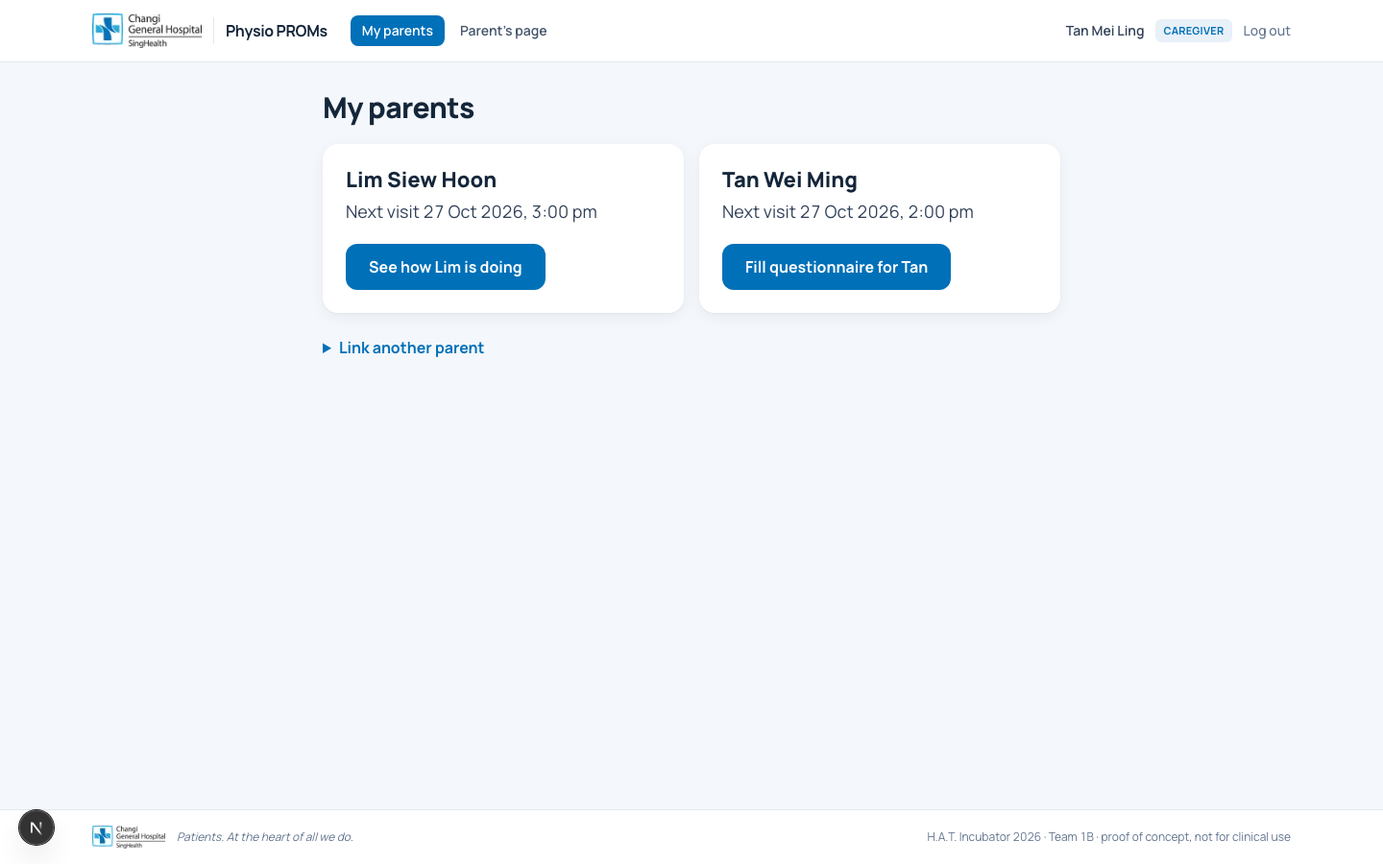
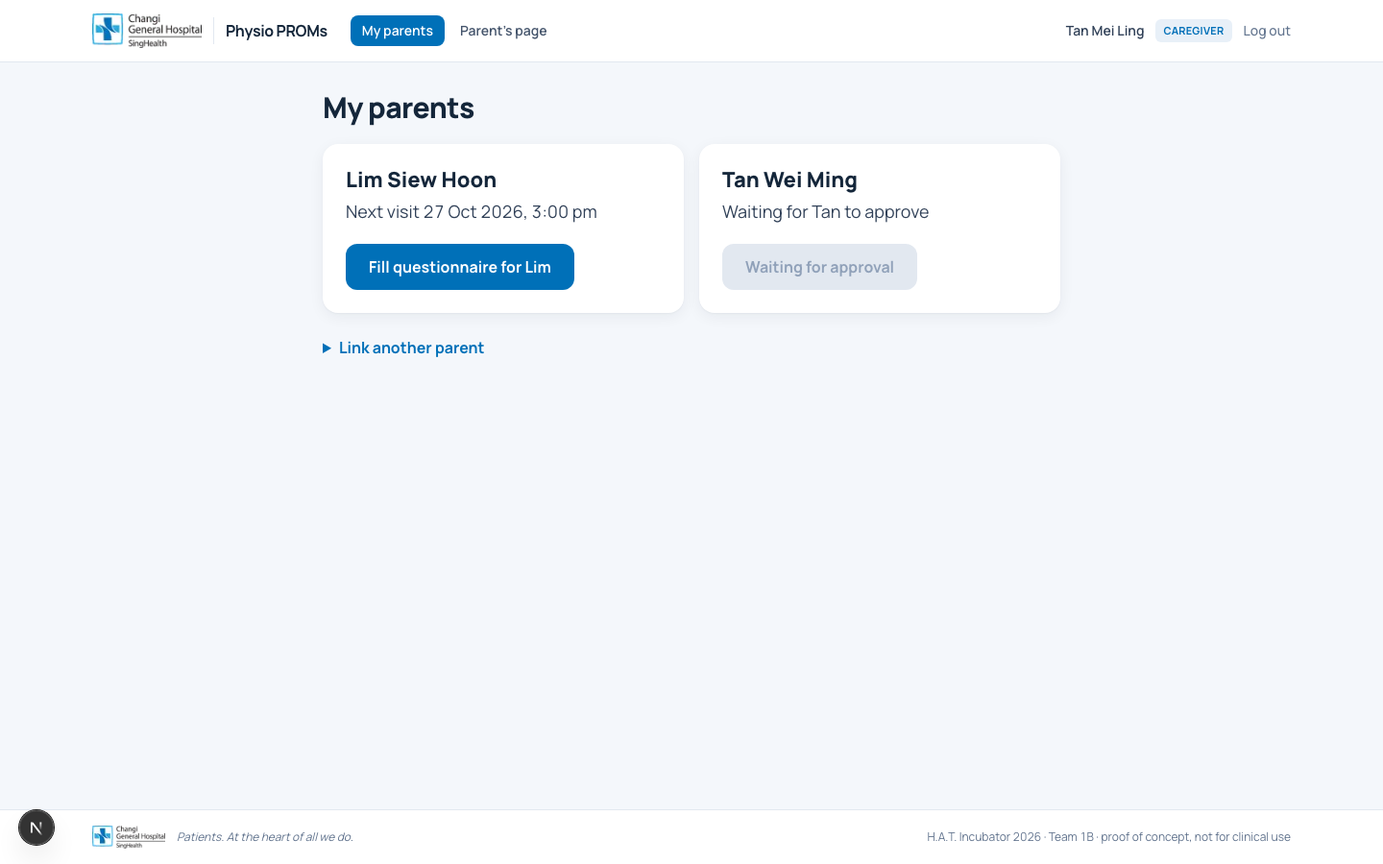
Caregiver links need the parent's consent: pending/accepted/declined status, Allow/Decline card for the parent (web + api/v1 link-requests), caregivers see nothing until accepted; demo seed keeps the daughter→father link pending

Changed region(s): [[0.5, 0.28, 0.6875, 0.3422], [0.2812, 0.28, 0.4375, 0.3422], [0.5312, 0.2178, 0.6875, 0.2489]]

diff --git a/web/app/patient/page.tsx b/web/app/patient/page.tsx
@@ -4,6 +4,8 @@ import { db, one } from "@/lib/db";
 import { patientBundle } from "@/lib/data";
 import { PlainProgress } from "@/components/PlainProgress";
 import { VERDICT_TEXT, verdict } from "@/lib/plain";
+import { linkAccepted, pendingRequests } from "@/lib/care";
+import { LinkRequestCard } from "@/components/LinkRequestCard";
 import { Card, Pill, fmtDT, fmtD, age, startOfTodaySG } from "@/components/ui";
 import { markReadAction } from "../actions";
 
@@ -13,7 +15,9 @@ export default async function PatientPage({ searchParams }: { searchParams: Prom
   const patientId = s.user.role === "caregiver" ? s.actingPatientId : s.user.role === "patient" ? s.user.id : null;
   if (s.user.role === "caregiver" && !patientId) redirect("/caregiver");
   if (!patientId) redirect("/");
+  if (s.user.role === "caregiver" && !(await linkAccepted(s.user.id, patientId))) redirect("/caregiver");
   const b = await patientBundle(patientId); if (!b) redirect("/");
+  const requests = s.user.role === "patient" ? await pendingRequests(patientId) : [];
   const q = await db();
   const notes = await q<{ id: number; kind: string; message: string; send_at: string; read_at: string | null; channel: string }>(`SELECT id, kind, message, send_at::text, read_at::text, channel FROM notifications WHERE user_id = $1 AND (channel='app' OR sent_at IS NOT NULL) ORDER BY send_at DESC LIMIT 30`, [patientId]);
   const unread = notes.filter((n) => n.channel === "app" && !n.read_at).length;
@@ -42,11 +46,12 @@ export default async function PatientPage({ searchParams }: { searchParams: Prom
           </>}
         </div>
         {cur && <p className={`mt-4 text-lg font-bold ${t.tone === "ok" ? "text-ok" : t.tone === "warn" ? "text-warn" : "text-slate-700"}`}>{v === "first" ? "Your first questionnaire is in." : t.title}</p>}
+        {requests.map((r) => <div key={r.id} className="mt-5"><LinkRequestCard r={r} /></div>)}
       </div>; })()}
     {tab === "survey" && <Card title="Questionnaire (EQ-5D-5L)">{pending.length ? <div className="space-y-2">{pending.map((a) => <div key={a.id} className="flex items-center justify-between text-sm"><span>For your appointment on <b>{fmtDT(a.scheduled_at)}</b></span><a href={`/survey?appt=${a.id}`} className="px-3 py-1.5 rounded bg-cgh-blue text-white text-xs font-semibold">Start</a></div>)}</div> : <div className="text-sm text-slate-600">No questionnaire due right now. You can still record how you feel today: <a href="/survey" className="underline text-cgh-blue">fill an extra entry</a>.</div>}</Card>}
     {tab === "progress" && <PlainProgress patientId={patientId} caregiver={s.user.role === "caregiver"} />}
     {tab === "calendar" && <Card title="Calendar"><table className="tbl"><thead><tr><th>When</th><th>Visit</th><th>Physiotherapist</th><th>Questionnaire</th></tr></thead><tbody>{[...b.appointments].reverse().map((a) => <tr key={a.id} ><td>{fmtDT(a.scheduled_at)}</td><td>{a.kind} <span className="text-slate-400">· {a.status}</span></td><td>{a.physio_name ?? "—"}</td><td>{a.survey_id ? <Pill ok>done</Pill> : a.status === "scheduled" ? <a href={`/survey?appt=${a.id}`} className="underline text-cgh-blue">fill now</a> : "—"}</td></tr>)}</tbody></table></Card>}
-    {tab === "notifications" && <Card title="Notifications" right={<form action={markReadAction}><button className="underline">Mark all as read</button></form>}>{notes.map((n) => <div key={n.id} className={`text-sm py-2 border-b border-slate-100 last:border-0 ${n.channel === "app" && !n.read_at ? "font-semibold" : ""}`}><span className="text-xs text-slate-400 mr-2">{fmtDT(n.send_at)} · {n.channel.toUpperCase()}</span>{n.message}</div>)}{notes.length === 0 && <p className="text-slate-500 text-sm">None.</p>}</Card>}
-    {tab === "profile" && <Card title="Personal particulars"><dl className="grid grid-cols-[160px_1fr] gap-y-2 text-sm"><dt className="text-slate-500">Name</dt><dd>{b.patient.name}</dd><dt className="text-slate-500">NRIC</dt><dd>{b.patient.login_id.slice(0, 1)}****{b.patient.login_id.slice(-4)}</dd><dt className="text-slate-500">Birthday</dt><dd>{fmtD(b.patient.birthday)} ({age(b.patient.birthday) ?? "-"} y)</dd><dt className="text-slate-500">Gender</dt><dd>{b.patient.gender ?? "—"}</dd><dt className="text-slate-500">Mobile</dt><dd>{b.patient.phone ?? "—"}</dd><dt className="text-slate-500">Address</dt><dd>{b.patient.address ?? "—"}</dd><dt className="text-slate-500">Condition</dt><dd>{b.referrals[0] ? `${b.referrals[0].diagnosis} · ${b.referrals[0].region} · physiotherapist ${b.referrals[0].physio_name ?? "to be assigned"}` : "—"}</dd><dt className="text-slate-500">Caregivers</dt><dd>{b.caregivers.length ? b.caregivers.map((c) => `${c.name} (${c.relationship})`).join(", ") : "none linked"}</dd></dl></Card>}
+    {tab === "notifications" && <div className="max-w-xl space-y-4">{requests.map((r) => <LinkRequestCard key={r.id} r={r} />)}<Card title="Notifications" right={<form action={markReadAction}><button className="underline">Mark all as read</button></form>}>{notes.filter((n) => !(n.kind === "link_request" && requests.length > 0)).map((n) => <div key={n.id} className={`text-sm py-2 border-b border-slate-100 last:border-0 ${n.channel === "app" && !n.read_at ? "font-semibold" : ""}`}><span className="text-xs text-slate-400 mr-2">{fmtDT(n.send_at)} · {n.channel.toUpperCase()}</span>{n.message}</div>)}{notes.length === 0 && <p className="text-slate-500 text-sm">None.</p>}</Card></div>}
+    {tab === "profile" && <Card title="Personal particulars"><dl className="grid grid-cols-[160px_1fr] gap-y-2 text-sm"><dt className="text-slate-500">Name</dt><dd>{b.patient.name}</dd><dt className="text-slate-500">NRIC</dt><dd>{b.patient.login_id.slice(0, 1)}****{b.patient.login_id.slice(-4)}</dd><dt className="text-slate-500">Birthday</dt><dd>{fmtD(b.patient.birthday)} ({age(b.patient.birthday) ?? "-"} y)</dd><dt className="text-slate-500">Gender</dt><dd>{b.patient.gender ?? "—"}</dd><dt className="text-slate-500">Mobile</dt><dd>{b.patient.phone ?? "—"}</dd><dt className="text-slate-500">Address</dt><dd>{b.patient.address ?? "—"}</dd><dt className="text-slate-500">Condition</dt><dd>{b.referrals[0] ? `${b.referrals[0].diagnosis} · ${b.referrals[0].region} · physiotherapist ${b.referrals[0].physio_name ?? "to be assigned"}` : "—"}</dd><dt className="text-slate-500">Caregivers</dt><dd>{b.caregivers.filter((c) => c.status === "accepted").length ? b.caregivers.filter((c) => c.status === "accepted").map((c) => `${c.name} (${c.relationship})`).join(", ") : "none linked"}</dd></dl></Card>}
   </div>;
 }

diff --git a/web/app/actions.ts b/web/app/actions.ts
@@ -6,6 +6,7 @@ import { hashPassword, login, logout, session, setActingPatient } from "@/lib/au
 import { HOME } from "@/lib/roles";
 import { indexValue, regionFromDiagnosis, type Dim } from "@/lib/eq5d";
 import { dispatchDue, notifyApp, scheduleReminders } from "@/lib/notify";
+import { linkAccepted, requestLink, respondLink } from "@/lib/care";
 
 
 export async function loginAction(_: unknown, fd: FormData) {
@@ -29,7 +30,7 @@ export async function registerAction(_: unknown, fd: FormData) {
   if (role === "caregiver") {
     const parent = await one<{ id: number }>("SELECT id FROM users WHERE login_id = $1 AND role = 'patient'", [String(fd.get("parent_nric") ?? "").trim().toUpperCase()]);
     if (!parent) return { error: "Registered, but the patient NRIC was not found. Log in and link your parent from your page." };
-    await q("INSERT INTO care_links(caregiver_id, patient_id, relationship) VALUES ($1,$2,$3) ON CONFLICT DO NOTHING", [u.id, parent.id, String(fd.get("relationship") || "child")]);
+    await requestLink(q, { id: u.id as number, name: String(fd.get("name")) }, parent.id, String(fd.get("relationship") || "child"));
   }
   await login(nric, pw);
   redirect(HOME[role]);
@@ -40,17 +41,16 @@ export async function linkParentAction(_: unknown, fd: FormData) {
   const parent = await one<{ id: number; name: string }>("SELECT id, name FROM users WHERE login_id = $1 AND role = 'patient'", [String(fd.get("parent_nric") ?? "").trim().toUpperCase()]);
   if (!parent) return { error: "No patient with that NRIC." };
   const q = await db();
-  await q("INSERT INTO care_links(caregiver_id, patient_id, relationship) VALUES ($1,$2,$3) ON CONFLICT DO NOTHING", [s.user.id, parent.id, String(fd.get("relationship") || "child")]);
-  await notifyApp(q, parent.id, "link", `${s.user.name} (${fd.get("relationship")}) is now linked to your account and can help you with questionnaires.`);
+  const link = await requestLink(q, { id: s.user.id, name: s.user.name }, parent.id, String(fd.get("relationship") || "child"));
   revalidatePath("/caregiver");
-  return { ok: `Linked to ${parent.name}` };
+  return { ok: link.status === "accepted" ? `Already linked to ${parent.name}` : `Request sent. ${parent.name} has to allow it first.` };
 }
 
 export async function actAsAction(fd: FormData) {
   const s = await session(); if (!s || s.user.role !== "caregiver") return;
   const pid = Number(fd.get("patient_id"));
-  const ok = await one("SELECT 1 FROM care_links WHERE caregiver_id = $1 AND patient_id = $2", [s.user.id, pid]);
-  if (ok) await setActingPatient(pid);
+  if (!(await linkAccepted(s.user.id, pid))) redirect("/caregiver");
+  await setActingPatient(pid);
   const appt = fd.get("appt");
   redirect(appt ? `/survey?appt=${appt}` : "/patient");
 }
@@ -59,6 +59,7 @@ export async function submitSurveyAction(_: unknown, fd: FormData) {
   const s = await session(); if (!s) return { error: "Please log in." };
   const patientId = s.user.role === "caregiver" ? s.actingPatientId : s.user.id;
   if (!patientId || !["patient", "caregiver"].includes(s.user.role)) return { error: "Not allowed." };
+  if (s.user.role === "caregiver" && !(await linkAccepted(s.user.id, patientId))) return { error: "Your parent has not allowed you to help yet." };
   const lv = {} as Record<Dim, number>;
   for (const d of ["mo", "sc", "ua", "pd", "ad"] as Dim[]) { lv[d] = Number(fd.get(d)); if (!(lv[d] >= 1 && lv[d] <= 5)) return { error: "Please answer every question." }; }
   const vas = Number(fd.get("eq_vas")), pain = Number(fd.get("pain"));
@@ -125,4 +126,11 @@ export async function markReadAction() {
   const s = await session(); if (!s) return;
   const q = await db(); await q("UPDATE notifications SET read_at = now() WHERE user_id = $1 AND channel='app' AND read_at IS NULL", [s.user.id]);
   revalidatePath("/patient");
+}
+
+export async function respondLinkAction(fd: FormData) {
+  const s = await session(); if (!s || s.user.role !== "patient") return;
+  await respondLink(Number(fd.get("link_id")), s.user.id, String(fd.get("accept")) === "1");
+  revalidatePath("/patient");
+  redirect("/patient?tab=notifications");
 }

diff --git a/web/lib/care.ts b/web/lib/care.ts
@@ -1,0 +1,45 @@
+// Caregiver ↔ patient links need the patient's consent. A link is 'pending' until the parent taps Allow.
+import "server-only";
+import { db, one } from "./db";
+import { notifyApp } from "./notify";
+
+type Q = (sql: string, params?: unknown[]) => Promise<Record<string, unknown>[]>;
+
+const pronoun = (rel: string) => /daughter|mother|wife|grandmother|sister/i.test(rel) ? "she" : /son|father|husband|grandson|brother/i.test(rel) ? "he" : "they";
+const possessive = (gender: string | null | undefined) => gender === "MALE" ? "his" : gender === "FEMALE" ? "her" : "their";
+
+/** Create a pending link and ask the parent. Returns the link id (existing one if already there). */
+export async function requestLink(q: Q, caregiver: { id: number; name: string }, parentId: number, relationship: string): Promise<{ id: number; status: string }> {
+  const existing = await one<{ id: number; status: string }>("SELECT id, status FROM care_links WHERE caregiver_id = $1 AND patient_id = $2", [caregiver.id, parentId]);
+  if (existing) return existing;
+  const [row] = await q("INSERT INTO care_links(caregiver_id, patient_id, relationship, status) VALUES ($1,$2,$3,'pending') RETURNING id", [caregiver.id, parentId, relationship]);
+  const id = row.id as number;
+  const verb = pronoun(relationship) === "they" ? "says they are" : `says ${pronoun(relationship)} is`;
+  await q(`INSERT INTO notifications(user_id, channel, kind, message, send_at, sent_at, link_id) VALUES ($1,'app','link_request',$2,now(),now(),$3)`,
+    [parentId, `${caregiver.name} ${verb} your ${relationship} and wants to help with your questionnaires. Allow?`, id]);
+  return { id, status: "pending" };
+}
+
+export async function linkAccepted(caregiverId: number, patientId: number): Promise<boolean> {
+  return !!(await one("SELECT 1 FROM care_links WHERE caregiver_id = $1 AND patient_id = $2 AND status = 'accepted'", [caregiverId, patientId]));
+}
+
+export async function pendingRequests(patientId: number) {
+  const q = await db();
+  return q<{ id: number; caregiver_id: number; name: string; relationship: string; created: string }>(
+    `SELECT c.id, c.caregiver_id, u.name, c.relationship FROM care_links c JOIN users u ON u.id = c.caregiver_id WHERE c.patient_id = $1 AND c.status = 'pending' ORDER BY c.id`, [patientId]);
+}
+
+/** The parent answers. Only the patient the link points at may do this. */
+export async function respondLink(linkId: number, patientId: number, accept: boolean): Promise<{ ok: boolean; caregiverName?: string }> {
+  const q = await db();
+  const link = await one<{ id: number; caregiver_id: number; status: string; name: string; pname: string; pgender: string | null }>(
+    `SELECT c.id, c.caregiver_id, c.status, u.name, p.name AS pname, p.gender AS pgender FROM care_links c JOIN users u ON u.id = c.caregiver_id JOIN users p ON p.id = c.patient_id WHERE c.id = $1 AND c.patient_id = $2`, [linkId, patientId]);
+  if (!link) return { ok: false };
+  await q("UPDATE care_links SET status = $1, responded_at = now() WHERE id = $2", [accept ? "accepted" : "declined", linkId]);
+  await q("UPDATE notifications SET read_at = now() WHERE link_id = $1 AND user_id = $2 AND read_at IS NULL", [linkId, patientId]);
+  if (!accept) await q("UPDATE sessions SET acting_patient_id = NULL WHERE user_id = $1 AND acting_patient_id = $2", [link.caregiver_id, patientId]);
+  await notifyApp(q, link.caregiver_id, accept ? "link_accepted" : "link_declined",
+    accept ? `${link.pname} allowed you to help with ${possessive(link.pgender)} questionnaires.` : `${link.pname} did not allow you to help with ${possessive(link.pgender)} questionnaires.`);
+  return { ok: true, caregiverName: link.name };
+}

diff --git a/web/app/caregiver/page.tsx b/web/app/caregiver/page.tsx
@@ -8,8 +8,8 @@ import { actAsAction, linkParentAction } from "../actions";
 export default async function Caregiver() {
   const s = await session(); if (!s || s.user.role !== "caregiver") redirect("/login");
   const q = await db();
-  const parents = await q<{ id: number; name: string; relationship: string; next_at: string | null; next_id: number | null; next_done: number | null; n_surveys: number }>(
-    `SELECT u.id, u.name, c.relationship,
+  const parents = await q<{ id: number; name: string; relationship: string; status: string; next_at: string | null; next_id: number | null; next_done: number | null; n_surveys: number }>(
+    `SELECT u.id, u.name, c.relationship, c.status,
        (SELECT a.scheduled_at::text FROM appointments a WHERE a.patient_id = u.id AND a.status='scheduled' AND a.scheduled_at >= date_trunc('day', now() AT TIME ZONE 'Asia/Singapore') AT TIME ZONE 'Asia/Singapore' ORDER BY a.scheduled_at LIMIT 1) AS next_at,
        (SELECT a.id FROM appointments a WHERE a.patient_id = u.id AND a.status='scheduled' AND a.scheduled_at >= date_trunc('day', now() AT TIME ZONE 'Asia/Singapore') AT TIME ZONE 'Asia/Singapore' ORDER BY a.scheduled_at LIMIT 1) AS next_id,
        (SELECT s.id FROM appointments a JOIN surveys s ON s.appointment_id = a.id WHERE a.patient_id = u.id AND a.status='scheduled' AND a.scheduled_at >= date_trunc('day', now() AT TIME ZONE 'Asia/Singapore') AT TIME ZONE 'Asia/Singapore' ORDER BY a.scheduled_at LIMIT 1) AS next_done,
@@ -19,8 +19,8 @@ export default async function Caregiver() {
     <div className="grid md:grid-cols-2 gap-4">
       {parents.map((p) => <div key={p.id} className="bg-white rounded-2xl shadow-card p-6">
         <div className="text-[22px] font-extrabold text-cgh-ink leading-tight">{p.name}</div>
-        <div className="text-lg text-slate-700 mt-1">{p.next_at ? `Next visit ${fmtDT(p.next_at)}` : "No visit booked"}</div>
-        <div className="mt-5">{p.next_id && !p.next_done
+        <div className="text-lg text-slate-700 mt-1">{p.status !== "accepted" ? (p.status === "pending" ? `Waiting for ${p.name.split(" ")[0]} to approve` : `${p.name.split(" ")[0]} did not allow this`) : p.next_at ? `Next visit ${fmtDT(p.next_at)}` : "No visit booked"}</div>
+        <div className="mt-5">{p.status !== "accepted" ? <button disabled className="px-6 py-3 rounded-xl bg-slate-200 text-slate-400 font-bold cursor-not-allowed">{p.status === "pending" ? "Waiting for approval" : "Not allowed"}</button> : p.next_id && !p.next_done
           ? <form action={actAsAction}><input type="hidden" name="patient_id" value={p.id} /><input type="hidden" name="appt" value={p.next_id} /><button className="px-6 py-3 rounded-xl bg-cgh-blue text-white font-bold hover:bg-cgh-blue-dark">Fill questionnaire for {p.name.split(" ")[0]}</button></form>
           : <form action={actAsAction}><input type="hidden" name="patient_id" value={p.id} /><button className="px-6 py-3 rounded-xl bg-cgh-blue text-white font-bold hover:bg-cgh-blue-dark">See how {p.name.split(" ")[0]} is doing</button></form>}</div>
       </div>)}

diff --git a/web/app/api/v1/caregiver/parents/route.ts b/web/app/api/v1/caregiver/parents/route.ts
@@ -1,12 +1,12 @@
 import { db, one } from "@/lib/db";
-import { notifyApp } from "@/lib/notify";
+import { requestLink } from "@/lib/care";
 import { body, error, isResponse, json, requireApi } from "@/lib/api";
 const SOD = "date_trunc('day', now() AT TIME ZONE 'Asia/Singapore') AT TIME ZONE 'Asia/Singapore'";
 export async function GET(req: Request) {
   const s = await requireApi(req, "caregiver"); if (isResponse(s)) return s;
   const q = await db();
   const parents = await q(
-    `SELECT u.id, u.name, c.relationship,
+    `SELECT u.id, u.name, c.relationship, c.status,
        (SELECT a.scheduled_at::text FROM appointments a WHERE a.patient_id = u.id AND a.status='scheduled' AND a.scheduled_at >= ${SOD} ORDER BY a.scheduled_at LIMIT 1) AS next_at,
        (SELECT a.id FROM appointments a WHERE a.patient_id = u.id AND a.status='scheduled' AND a.scheduled_at >= ${SOD} ORDER BY a.scheduled_at LIMIT 1) AS next_id,
        (SELECT s.id FROM appointments a JOIN surveys s ON s.appointment_id = a.id WHERE a.patient_id = u.id AND a.status='scheduled' AND a.scheduled_at >= ${SOD} ORDER BY a.scheduled_at LIMIT 1) AS next_done,
@@ -22,7 +22,6 @@ export async function POST(req: Request) {
   if (!parent) return error("No patient with that NRIC.", 404);
   const q = await db();
   const rel = String(b.relationship || "child");
-  await q("INSERT INTO care_links(caregiver_id, patient_id, relationship) VALUES ($1,$2,$3) ON CONFLICT DO NOTHING", [s.user.id, parent.id, rel]);
-  await notifyApp(q, parent.id, "link", `${s.user.name} (${rel}) is now linked to your account and can help you with questionnaires.`);
-  return json({ ok: true, patient: parent }, 201);
+  const link = await requestLink(q, { id: s.user.id, name: s.user.name }, parent.id, rel);
+  return json({ ok: true, patient: parent, status: link.status, message: link.status === "accepted" ? "Already linked." : "Waiting for approval" }, 201);
 }

diff --git a/web/components/PatientDetail.tsx b/web/components/PatientDetail.tsx
@@ -19,7 +19,7 @@ export async function PatientDetail({ patientId, staff = false, self = false }: 
   return <div className="grid lg:grid-cols-[1fr_420px] gap-4">
     <div className="space-y-4">
       <Card title={self ? "My progress" : "Patient"} right={staff ? `${referrals.length} referral(s) · ${surveys.length} PROMs` : ""}>
-        {!self && <div className="mb-3"><div className="text-lg font-bold">{patient.name}</div><div className="text-slate-600 text-sm">{patient.login_id.slice(0, 1)}****{patient.login_id.slice(-4)} · {patient.gender ?? "-"} · {age(patient.birthday) ?? "-"} y · {patient.phone ?? "no phone"}{caregivers.length > 0 && <> · caregivers: {caregivers.map((c) => `${c.name} (${c.relationship})`).join(", ")}</>}</div></div>}
+        {!self && <div className="mb-3"><div className="text-lg font-bold">{patient.name}</div><div className="text-slate-600 text-sm">{patient.login_id.slice(0, 1)}****{patient.login_id.slice(-4)} · {patient.gender ?? "-"} · {age(patient.birthday) ?? "-"} y · {patient.phone ?? "no phone"}{caregivers.some((c) => c.status === "accepted") && <> · caregivers: {caregivers.filter((c) => c.status === "accepted").map((c) => `${c.name} (${c.relationship})`).join(", ")}</>}</div></div>}
         {cur ? (() => { const v = verdict(cur, prev); const t = VERDICT_TEXT[v]; return <>
           <div className="mb-3"><Pill tone={t.tone}>{v === "first" ? "First questionnaire" : v === "better" ? "Improved since last visit" : v === "same" ? "Stable since last visit" : "Worse since last visit"}</Pill> <span className="text-xs text-slate-500 ml-2">submitted {fmtDT(cur.submitted_at)} by {cur.filled_by_name}</span></div>
           <table className="tbl mb-3"><thead><tr><th>Dimension</th><th>Now · {fmtD(cur.submitted_at)}</th><th>{prev ? <>Last · {fmtD(prev.submitted_at)}</> : "Last"}</th></tr></thead><tbody>

diff --git a/web/lib/seed.ts b/web/lib/seed.ts
@@ -31,7 +31,11 @@ export async function seedIfEmpty(q: Q) {
   const dad = await ins("patient", "S1234567A", "Tan Wei Ming", { phone: "+6591234567", gender: "MALE", birthday: "1962-03-14", address: "Blk 123 Tampines St 11 #05-123" });
   const mum = await ins("patient", "S2345678B", "Lim Siew Hoon", { phone: "+6592345678", gender: "FEMALE", birthday: "1958-11-02", address: "Blk 45 Bedok North Ave 3 #08-456" });
   const daughter = await ins("caregiver", "S3456789C", "Tan Mei Ling", { phone: "+6593456789", gender: "FEMALE", birthday: "1990-07-21", address: "Blk 123 Tampines St 11 #05-123" });
-  await q("INSERT INTO care_links(caregiver_id, patient_id, relationship) VALUES ($1,$2,$3),($1,$4,$5)", [daughter, dad, "daughter", mum, "daughter"]);
+  await q("INSERT INTO care_links(caregiver_id, patient_id, relationship, status, responded_at) VALUES ($1,$2,'daughter','accepted',now())", [daughter, mum]);
+  // the link to the father is still waiting for his Allow (demo: he taps Allow on his phone)
+  const [pend] = await q("INSERT INTO care_links(caregiver_id, patient_id, relationship, status) VALUES ($1,$2,'daughter','pending') RETURNING id", [daughter, dad]);
+  await q(`INSERT INTO notifications(user_id, channel, kind, message, send_at, sent_at, link_id) VALUES ($1,'app','link_request',$2,now(),now(),$3)`,
+    [dad, "Tan Mei Ling says she is your daughter and wants to help with your questionnaires. Allow?", pend.id]);
 
   // referrals from the CGH extract -> synthetic identities
   const today = new Date(); today.setHours(0, 0, 0, 0);

diff --git a/web/lib/schema.ts b/web/lib/schema.ts
@@ -16,6 +16,8 @@ CREATE TABLE IF NOT EXISTS care_links (             -- caregiver (child) -> pati
   caregiver_id INT NOT NULL REFERENCES users(id),
   patient_id INT NOT NULL REFERENCES users(id),
   relationship TEXT NOT NULL,                        -- son, daughter, spouse ...
+  status TEXT NOT NULL DEFAULT 'accepted',           -- pending | accepted | declined (parent must allow)
+  responded_at TIMESTAMPTZ,
   UNIQUE (caregiver_id, patient_id)
 );
 CREATE TABLE IF NOT EXISTS referrals (              -- doctor -> physio
@@ -60,6 +62,7 @@ CREATE TABLE IF NOT EXISTS notifications (          -- in-app bell + SMS outbox
   send_at TIMESTAMPTZ NOT NULL,
   sent_at TIMESTAMPTZ,
   read_at TIMESTAMPTZ,
+  link_id INT,                                       -- for kind='link_request': the care_links row to answer
   created_at TIMESTAMPTZ NOT NULL DEFAULT now()
 );
 CREATE TABLE IF NOT EXISTS sessions (
@@ -68,6 +71,9 @@ CREATE TABLE IF NOT EXISTS sessions (
   acting_patient_id INT REFERENCES users(id),        -- caregiver currently viewing this parent
   created_at TIMESTAMPTZ NOT NULL DEFAULT now()
 );
+ALTER TABLE care_links ADD COLUMN IF NOT EXISTS status TEXT NOT NULL DEFAULT 'accepted';
+ALTER TABLE care_links ADD COLUMN IF NOT EXISTS responded_at TIMESTAMPTZ;
+ALTER TABLE notifications ADD COLUMN IF NOT EXISTS link_id INT;
 CREATE INDEX IF NOT EXISTS idx_surveys_patient ON surveys(patient_id, submitted_at);
 CREATE INDEX IF NOT EXISTS idx_appts_patient ON appointments(patient_id, scheduled_at);
 `;

diff --git a/web/components/LinkRequestCard.tsx b/web/components/LinkRequestCard.tsx
@@ -1,0 +1,14 @@
+import { respondLinkAction } from "@/app/actions";
+const pronoun = (rel: string) => /daughter|mother|wife|grandmother|sister/i.test(rel) ? "She" : /son|father|husband|grandson|brother/i.test(rel) ? "He" : "They";
+/** The parent's Allow / Decline card for one pending caregiver link. */
+export function LinkRequestCard({ r }: { r: { id: number; name: string; relationship: string } }) {
+  return <div className="bg-white rounded-2xl shadow-card p-6 border-2 border-cgh-sky/40">
+    <div className="text-[11px] font-bold uppercase tracking-[0.08em] text-cgh-blue">Your {r.relationship} wants to help</div>
+    <div className="text-[22px] font-extrabold text-cgh-ink mt-1 leading-tight">{r.name}</div>
+    <div className="text-lg text-slate-700 mt-1">{pronoun(r.relationship)} will be able to see your answers and fill in questionnaires for you.</div>
+    <div className="mt-5 flex gap-3">
+      <form action={respondLinkAction}><input type="hidden" name="link_id" value={r.id} /><input type="hidden" name="accept" value="1" /><button className="px-6 py-3 rounded-xl bg-cgh-blue text-white font-bold hover:bg-cgh-blue-dark">Allow</button></form>
+      <form action={respondLinkAction}><input type="hidden" name="link_id" value={r.id} /><input type="hidden" name="accept" value="0" /><button className="px-6 py-3 rounded-xl bg-white border border-slate-300 font-bold text-slate-700 hover:border-danger hover:text-danger">Decline</button></form>
+    </div>
+  </div>;
+}

diff --git a/web/app/api/v1/notifications/route.ts b/web/app/api/v1/notifications/route.ts
@@ -1,10 +1,12 @@
 import { db } from "@/lib/db";
-import { isResponse, json, requireApi, viewedPatientId } from "@/lib/api";
+import { isResponse, json, requireApi, requireViewedPatient, viewedPatientId } from "@/lib/api";
 export async function GET(req: Request) {
   const s = await requireApi(req); if (isResponse(s)) return s;
-  const uid = viewedPatientId(s) ?? s.user.id;   // caregivers see their parent's inbox, like the web
+  let uid = s.user.id;
+  if (viewedPatientId(s) && s.user.role === "caregiver") { const pid = await requireViewedPatient(s); if (isResponse(pid)) return pid; uid = pid; }
+  else if (s.user.role === "patient") uid = s.user.id;
   const q = await db();
-  const notifications = await q(`SELECT id, kind, channel, message, send_at::text, read_at::text, appointment_id FROM notifications WHERE user_id = $1 AND (channel='app' OR sent_at IS NOT NULL) ORDER BY send_at DESC LIMIT 50`, [uid]);
+  const notifications = await q(`SELECT id, kind, channel, message, send_at::text, read_at::text, appointment_id, link_id FROM notifications WHERE user_id = $1 AND (channel='app' OR sent_at IS NOT NULL) ORDER BY send_at DESC LIMIT 50`, [uid]);
   const unread = notifications.filter((n) => n.channel === "app" && !n.read_at).length;
   return json({ notifications, unread });
 }

diff --git a/web/lib/data.ts b/web/lib/data.ts
@@ -16,7 +16,7 @@ export async function patientBundle(patientId: number) {
   const appointments = await q<Appt>(`SELECT a.id, a.referral_id, a.scheduled_at::text, a.kind, a.status, p.name AS physio_name, s.id AS survey_id
     FROM appointments a LEFT JOIN users p ON p.id = a.physio_id LEFT JOIN surveys s ON s.appointment_id = a.id WHERE a.patient_id = $1 ORDER BY a.scheduled_at`, [patientId]);
   const surveys = await q<Survey>(`SELECT s.*, s.submitted_at::text, u.name AS filled_by_name FROM surveys s JOIN users u ON u.id = s.filled_by WHERE s.patient_id = $1 ORDER BY s.submitted_at`, [patientId]);
-  const caregivers = await q<{ id: number; name: string; relationship: string; phone: string | null }>(`SELECT u.id, u.name, c.relationship, u.phone FROM care_links c JOIN users u ON u.id = c.caregiver_id WHERE c.patient_id = $1`, [patientId]);
+  const caregivers = await q<{ id: number; name: string; relationship: string; phone: string | null; status: string }>(`SELECT u.id, u.name, c.relationship, u.phone, c.status FROM care_links c JOIN users u ON u.id = c.caregiver_id WHERE c.patient_id = $1`, [patientId]);
   return { patient, referrals, appointments, surveys, caregivers };
 }
 

diff --git a/web/app/patients/[id]/page.tsx b/web/app/patients/[id]/page.tsx
@@ -8,7 +8,7 @@ export default async function PatientById({ params }: { params: Promise<{ id: st
   const s = await session(); if (!s) redirect("/login");
   const id = Number((await params).id);
   if (s.user.role === "patient" && s.user.id !== id) redirect("/patient");
-  if (s.user.role === "caregiver") { const ok = await one("SELECT 1 FROM care_links WHERE caregiver_id = $1 AND patient_id = $2", [s.user.id, id]); if (!ok) redirect("/caregiver"); }
+  if (s.user.role === "caregiver") { const ok = await one("SELECT 1 FROM care_links WHERE caregiver_id = $1 AND patient_id = $2 AND status = 'accepted'", [s.user.id, id]); if (!ok) redirect("/caregiver"); }
   if (s.user.role === "physio") { const ok = await one("SELECT 1 FROM referrals WHERE physio_id = $1 AND patient_id = $2", [s.user.id, id]); if (!ok) return <p className="text-danger">This patient is not referred to you.</p>; }
   return <div><a href={HOME[s.user.role]} className="text-sm text-slate-500 hover:underline">Back</a><div className="mt-2"><PatientDetail patientId={id} staff={["doctor", "physio", "hod"].includes(s.user.role)} /></div></div>;
 }
